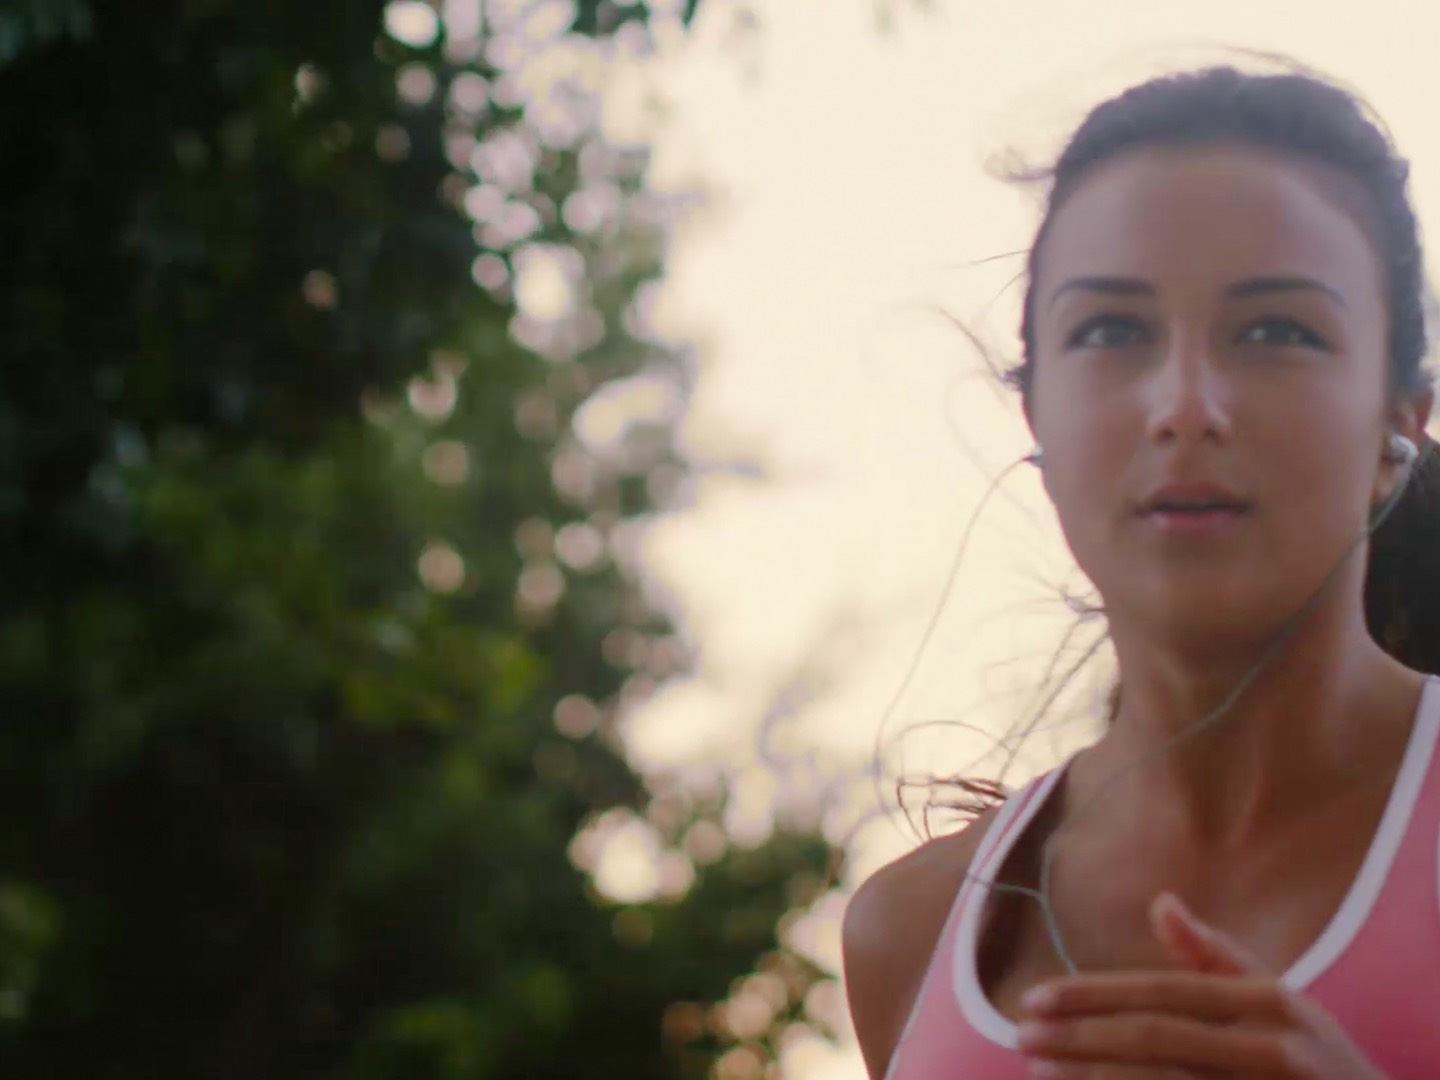
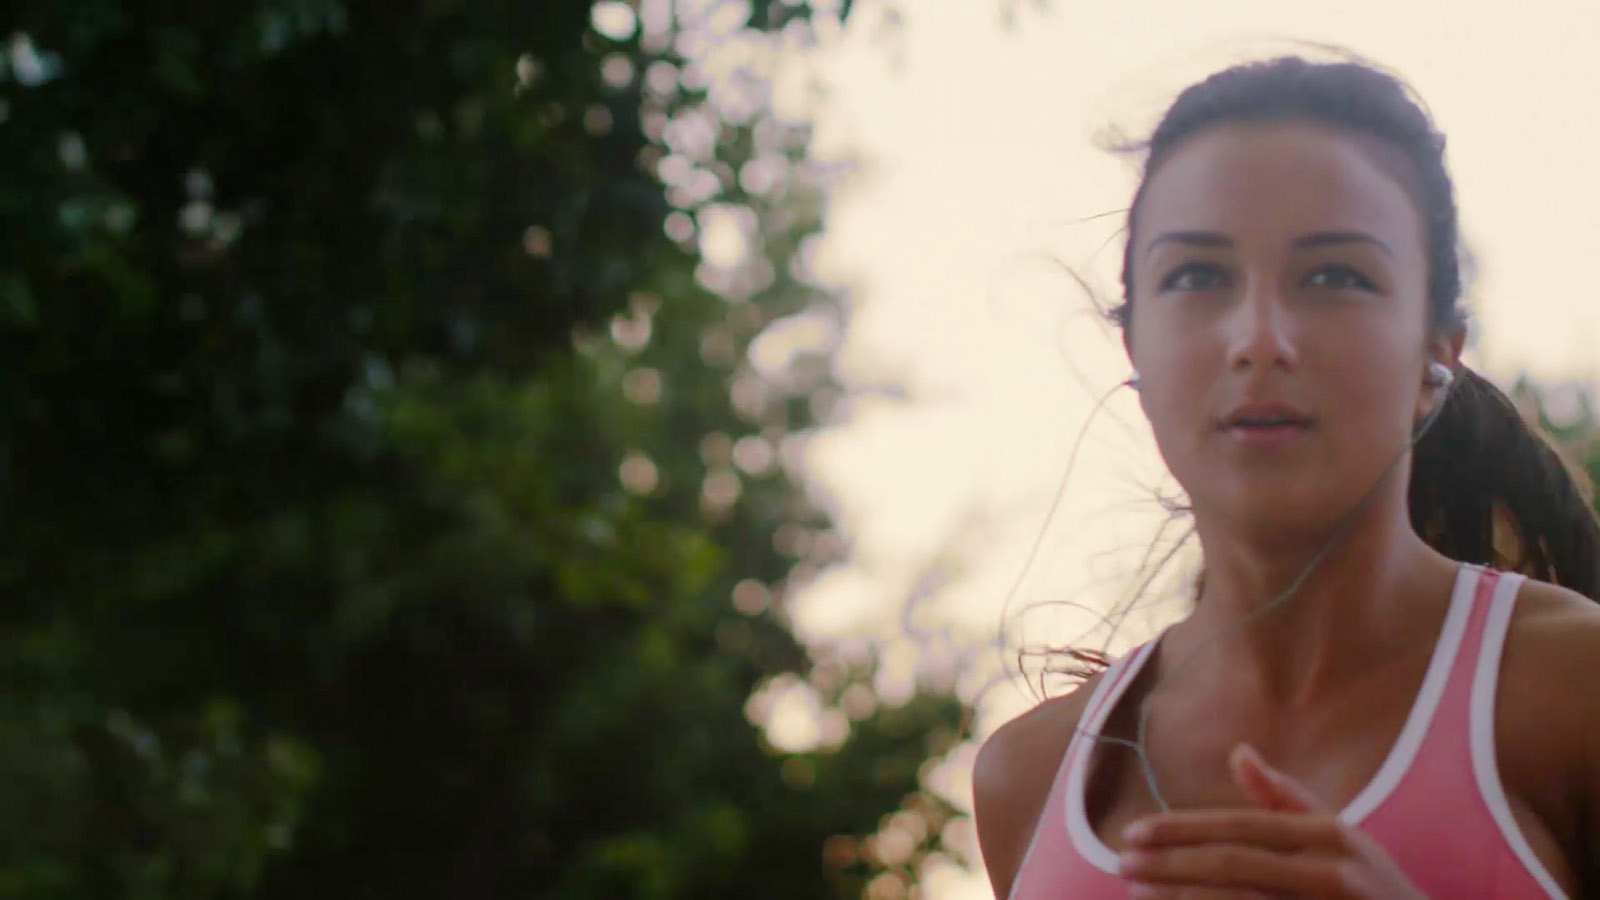
Update bg images, remove unused

diff --git a/source/layouts/Hero/styles.css b/source/layouts/Hero/styles.css
@@ -9,7 +9,7 @@
   top: 0;
   width: 100%;
   height: 100%;
-  background-image: url('/layouts/Hero/running-girl2.jpg');
+  background-image: url('/layouts/Hero/running-girl.jpg');
   overflow: hidden;
   background-repeat: no-repeat;
   background-size: cover;
